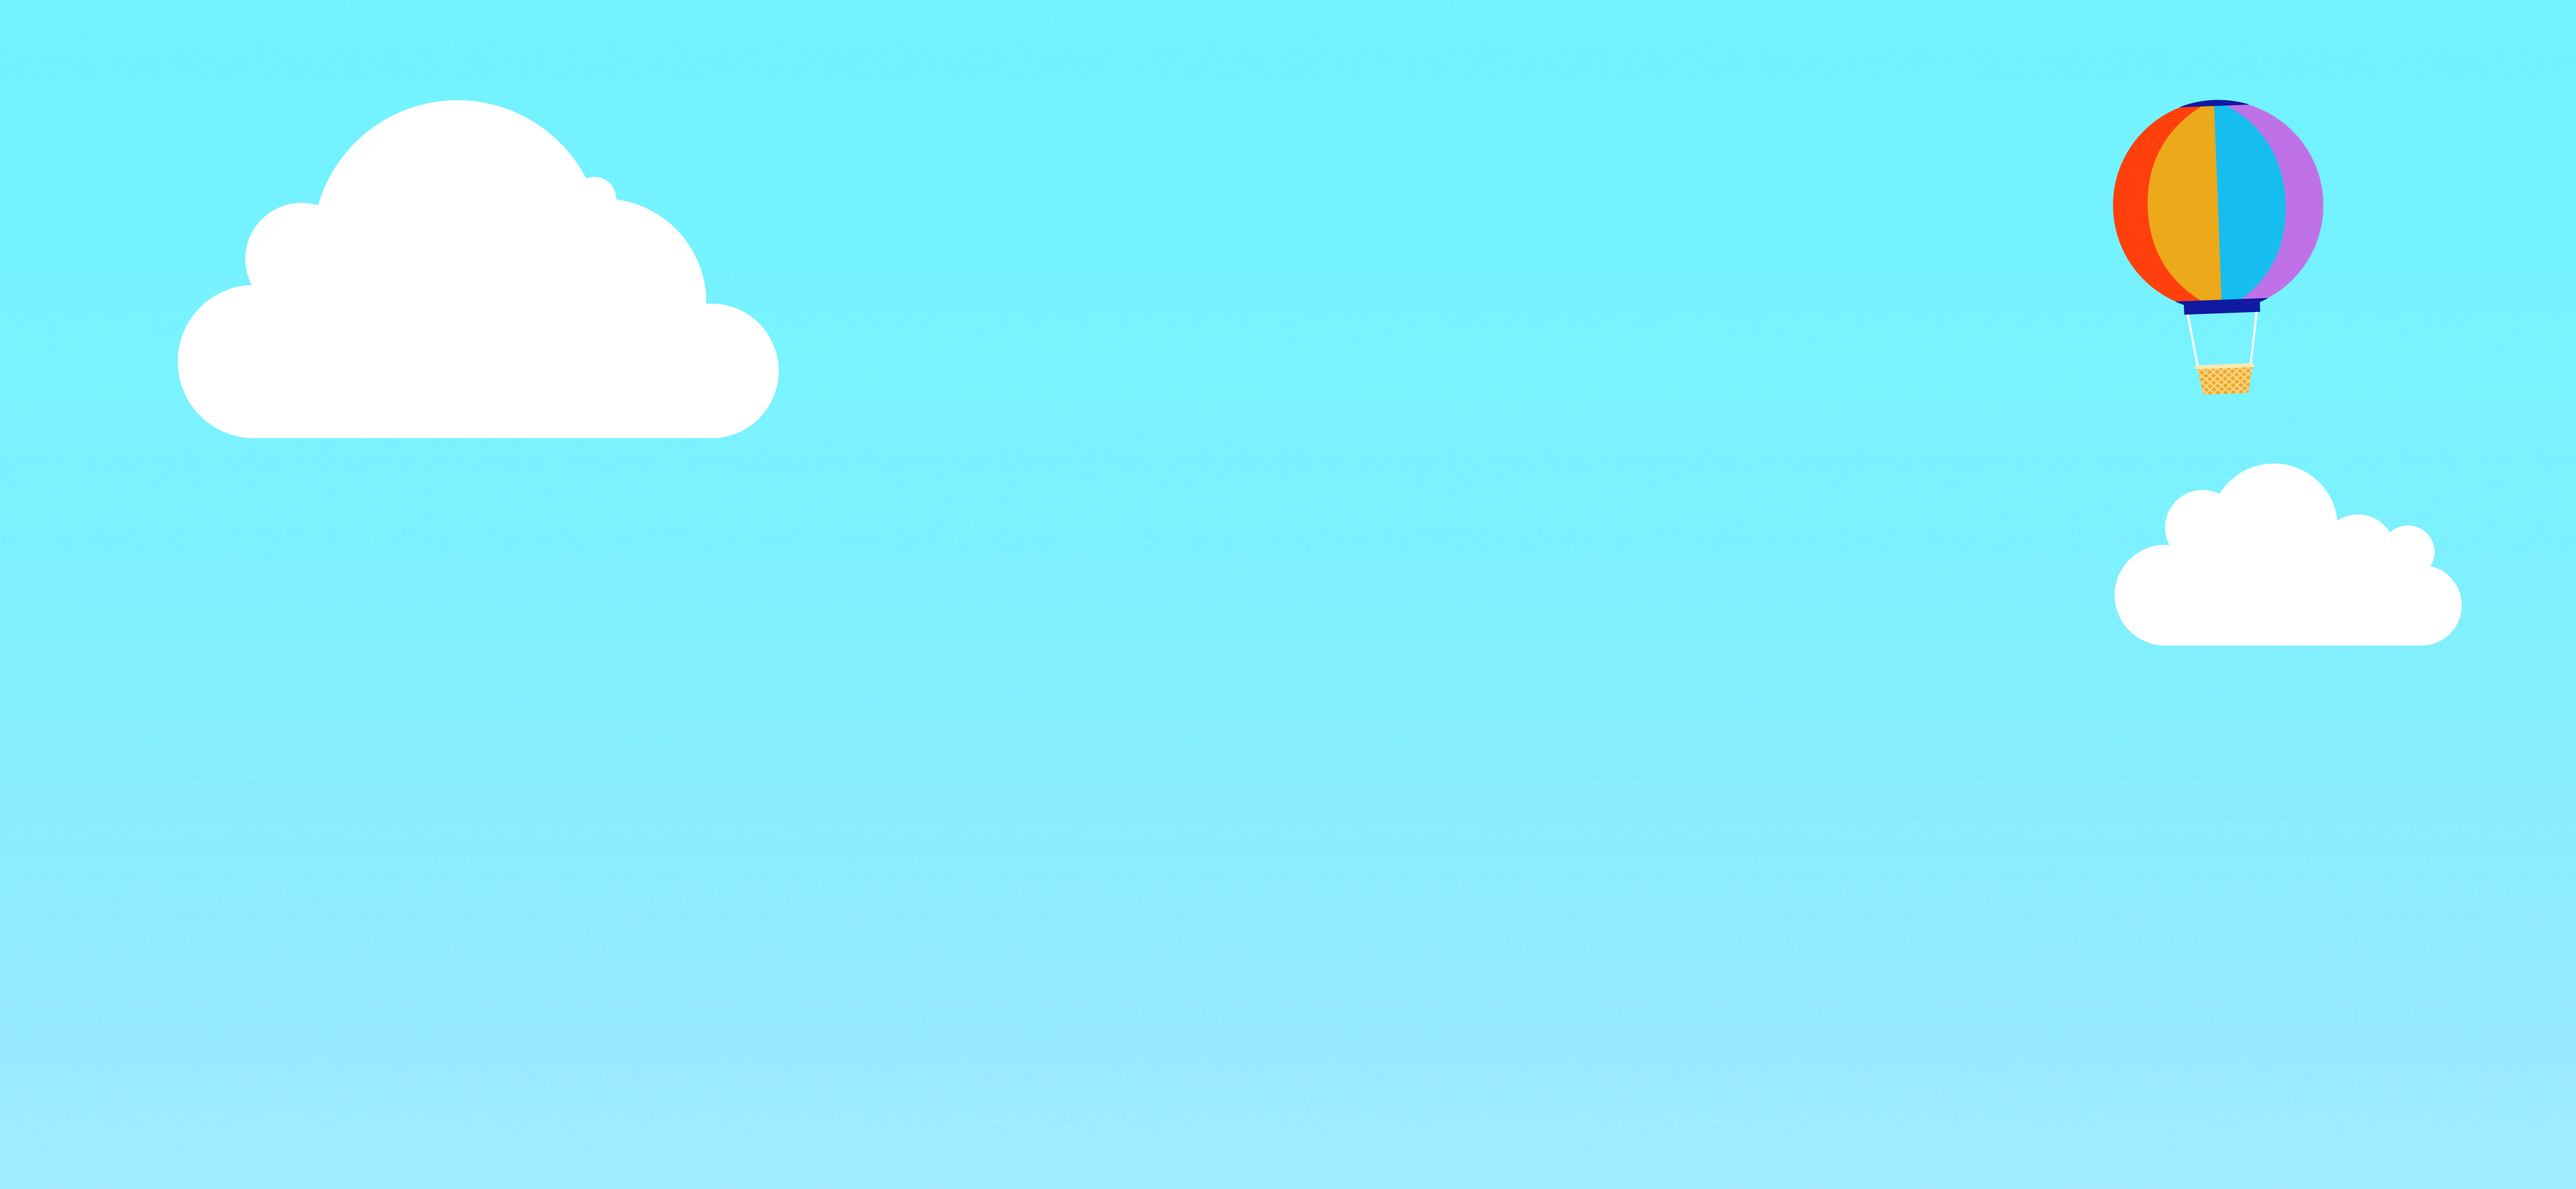
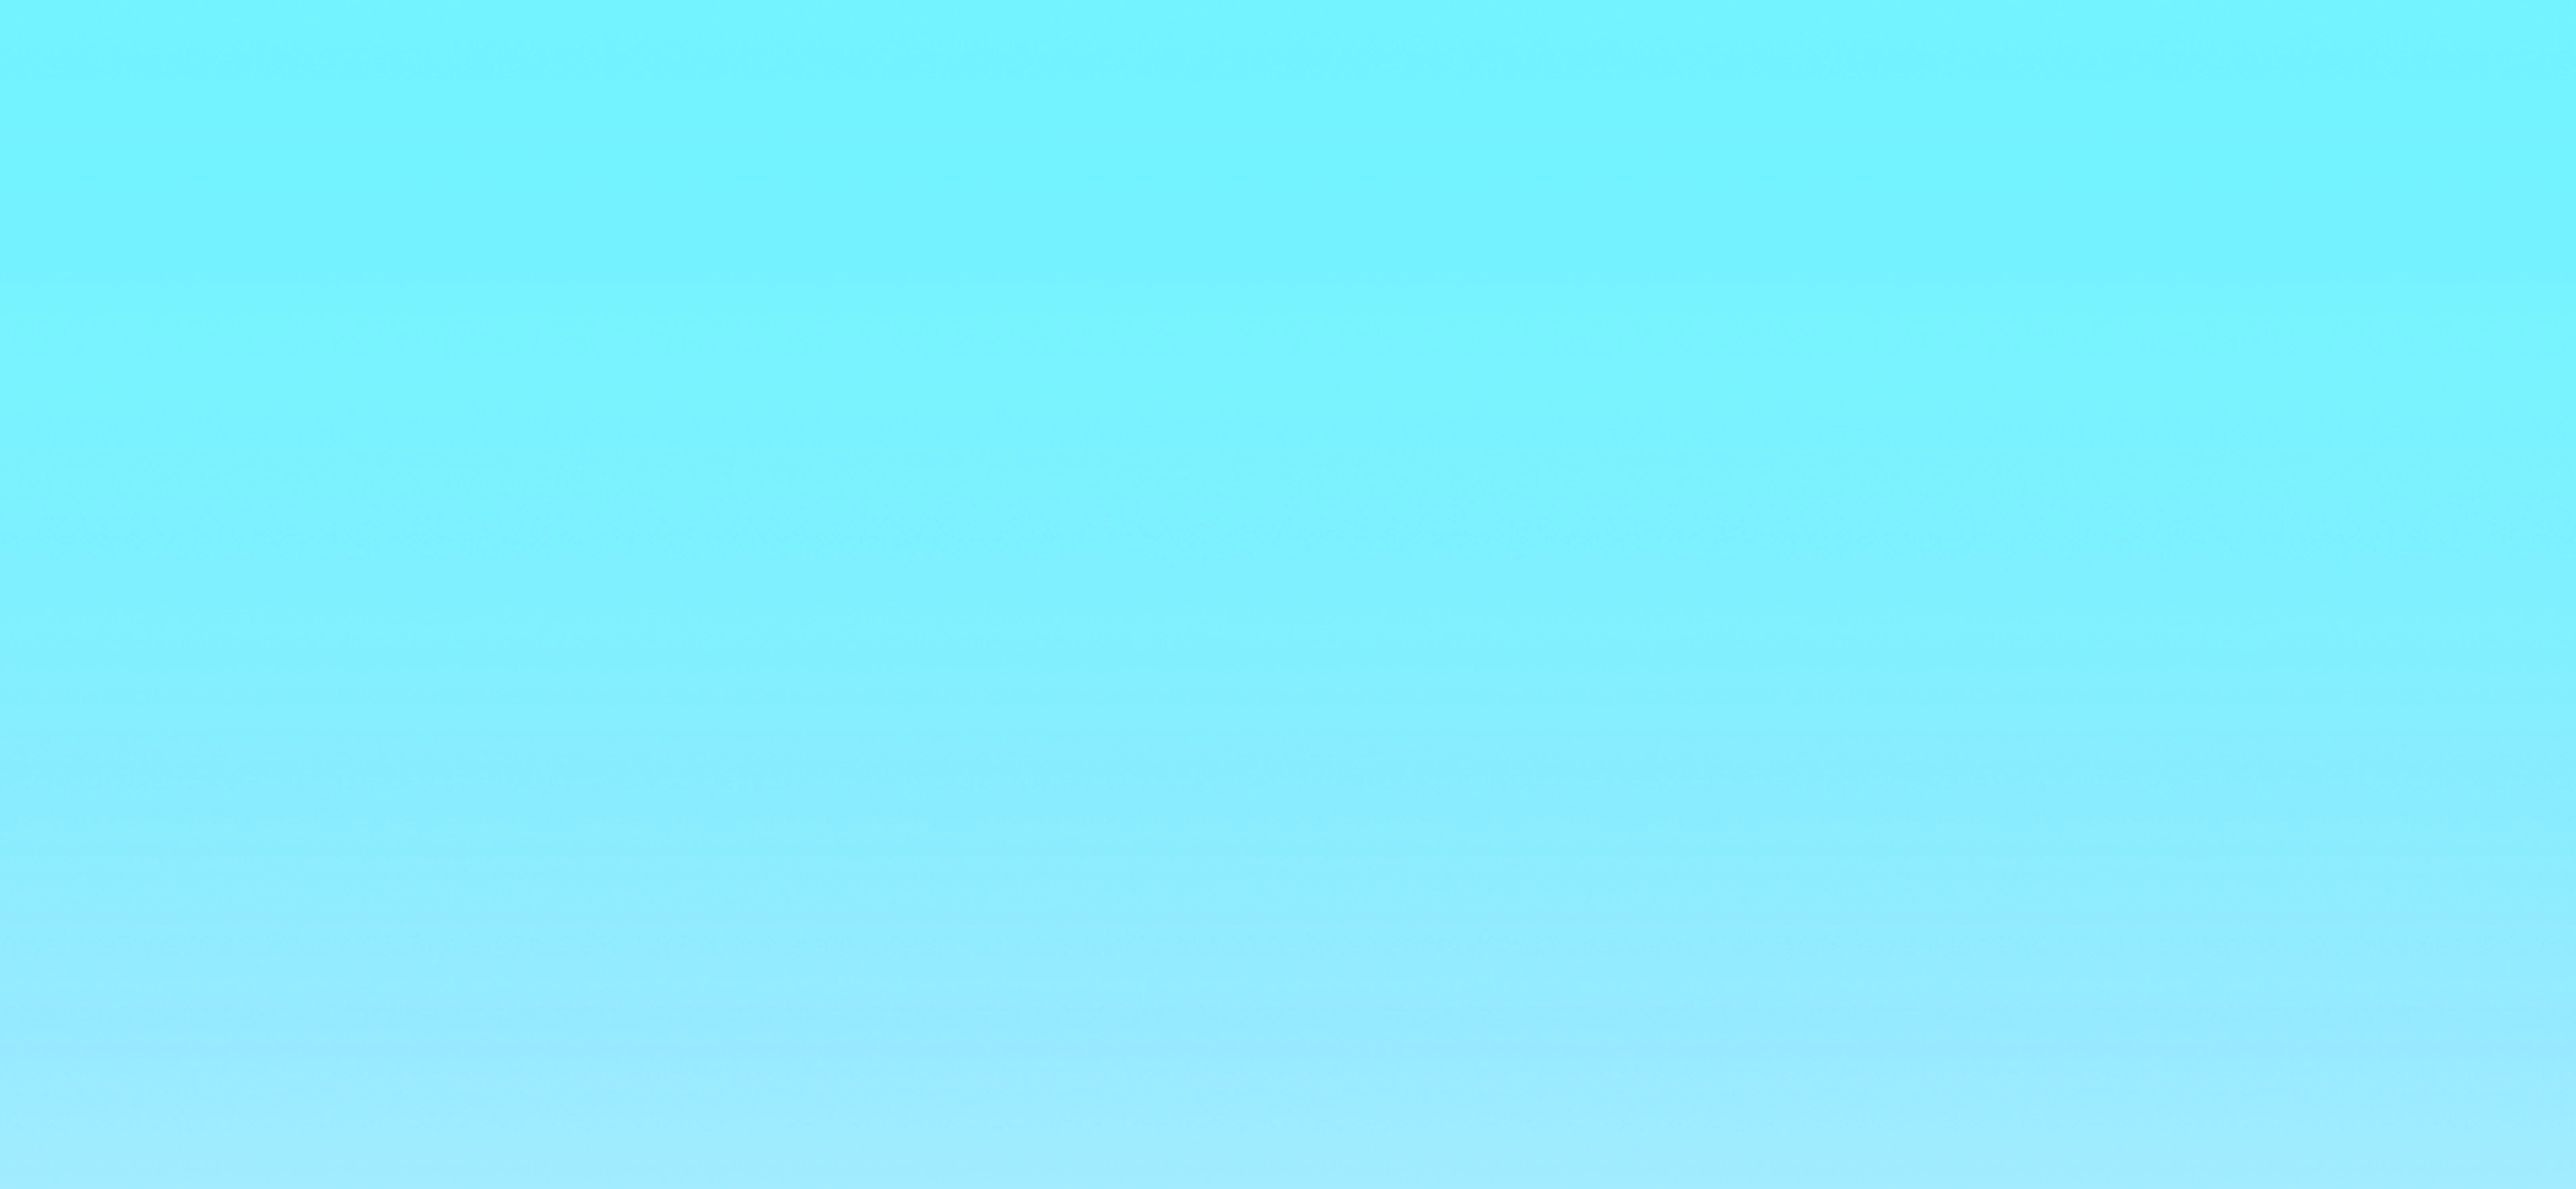
bubble game

diff --git a/web_test/lib/prototype/game_screen/game_memory_number_7/game_memory_number.dart b/web_test/lib/prototype/game_screen/game_memory_number_7/game_memory_number.dart
@@ -8,7 +8,10 @@ import 'package:flutter_svg/flutter_svg.dart';
 import 'package:hexcolor/hexcolor.dart';
 import 'package:simple_animations/simple_animations.dart';
 import 'package:web_test/model/game_calculate_model.dart';
+import 'package:web_test/widgets/basic_item.dart';
+import 'package:web_test/widgets/bubble_animation.dart';
 import 'package:web_test/widgets/particle.dart';
+import 'package:web_test/widgets/slide_animation.dart';
 
 class GameMemoryNumber extends StatefulWidget {
   _GameMemoryNumberState createState() => _GameMemoryNumberState();
@@ -48,7 +51,6 @@ class _GameMemoryNumberState extends State<GameMemoryNumber> {
         particles.add([]);
       }
     }
-    print(questionData);
   }
 
   @override
@@ -59,7 +61,11 @@ class _GameMemoryNumberState extends State<GameMemoryNumber> {
       questionData.position = questionPositionTmp;
       setState(() {});
     });
-    Timer(Duration(milliseconds: 4000), () {
+    Timer(Duration(milliseconds: 5000), () {
+      questionData.position = Offset(questionPositionTmp.dx,-300.0);
+      setState(() {});
+    });
+    Timer(Duration(milliseconds: 5500), () {
       Timer(Duration(milliseconds: 500), () {
         for (int index = 0; index < answerPositionTmp.length; index++) {
           answerData[index].position = answerPositionTmp[index];
@@ -100,14 +106,15 @@ class _GameMemoryNumberState extends State<GameMemoryNumber> {
         duration: Duration(milliseconds: 1000),
         top: questionData.position.dy,
         left: questionData.position.dx,
-        child: Container(
+        child: BubbleAnimation(
+            child: Container(
           height: questionData.height,
           width: questionData.width,
           child: SvgPicture.asset(
             assetFolder + questionData.image,
             fit: BoxFit.contain,
           ),
-        ));
+        )));
   }
 
   Widget _buildParticle(int index) {
@@ -138,26 +145,97 @@ class _GameMemoryNumberState extends State<GameMemoryNumber> {
     return Stack(
       children: answerIndex.map((index) {
         GameCalculateModel item = answerData[index];
-        return AnimatedPositioned(
-            left: item.position.dx,
-            top: item.position.dy,
-            duration: Duration(milliseconds: 1000),
-            child: _buildParticle(index));
+        return item.type == 1 && item.groupId == questionData.groupId
+            ? AnimatedPositioned(
+                left: item.position.dx,
+                top: item.position.dy,
+                duration: Duration(milliseconds: 1000),
+                child: BubbleAnimation(
+                  child: _buildParticle(index),
+                ))
+            : AnimatedPositioned(
+                left: item.position.dx,
+                top: item.position.dy,
+                duration: Duration(milliseconds: 1000),
+                child: BubbleAnimation(
+                  child: Container(
+                    height: item.height,
+                    width: item.width,
+                    child: SvgPicture.asset(
+                      assetFolder + item.image,
+                      fit: BoxFit.contain,
+                    ),
+                  ),
+                ));
       }).toList(),
     );
   }
 
-  Widget bubbleAnimation(){
+  Widget displayHotAirBalloon() {
+    return Positioned(
+        top: 33,
+        left: 665,
+        child: BubbleAnimation(
+          child: Container(
+            height: 96,
+            width: 71,
+            child: SvgPicture.asset(
+              'assets/images/game_memory_number_7/hot_air_balloon.svg',
+              fit: BoxFit.contain,
+            ),
+          ),
+        ));
+  }
 
+  Widget displayCloud() {
+    return Stack(
+      children: [
+        Positioned(
+            top: 32,
+            left: 56,
+            child: SlideAnimation(
+              beginValue: 0,
+              endValue: 812.0,
+              time: 20000,
+              child: Container(
+                height: 108,
+                width: 190,
+                child: SvgPicture.asset(
+                  'assets/images/game_memory_number_7/cloud_1.svg',
+                  fit: BoxFit.contain,
+                ),
+              ),
+            )),
+        Positioned(
+            top: 146,
+            left: 667,
+            child: SlideAnimation(
+              beginValue: 145.0,
+              endValue: -812.0,
+              time: 20000,
+              child: Container(
+                height: 58,
+                width: 110,
+                child: SvgPicture.asset(
+                  'assets/images/game_memory_number_7/cloud_2.svg',
+                  fit: BoxFit.contain,
+                ),
+              ),
+            ))
+      ],
+    );
   }
 
   List<Widget> displayScreen() {
     List<Widget> widgets = [];
+    widgets.add(displayHotAirBalloon());
     if (isDisplayAnswer) {
       widgets.add(displayAnswer());
     } else {
       widgets.add(displayQuestion());
     }
+    widgets.add(displayCloud());
+    widgets.add(BasicItem());
 
     return widgets;
   }

diff --git a/web_test/lib/widgets/slide_animation.dart b/web_test/lib/widgets/slide_animation.dart
@@ -1,8 +1,9 @@
 import 'dart:math';
 
 import 'package:flutter/material.dart';
+import 'package:flutter_staggered_animations/flutter_staggered_animations.dart';
 
-class BubbleAnimation extends StatefulWidget {
+class SlideAnimation extends StatefulWidget {
   final Widget child;
   final VoidCallback onTab;
   final int isPlayAnimation;
@@ -10,33 +11,37 @@ class BubbleAnimation extends StatefulWidget {
   final double endValue;
   final int time;
 
+  SlideAnimation(
+      {this.child,
+      this.onTab,
+      this.isPlayAnimation,
+      this.beginValue = -5.0,
+      this.endValue = 5.0,
+      this.time});
 
-  BubbleAnimation(
-      {this.child, this.onTab, this.isPlayAnimation, this.beginValue=-5.0, this.endValue=5.0, this.time});
-
-  _BubbleAnimationState createState() => _BubbleAnimationState();
+  _SlideAnimationState createState() => _SlideAnimationState();
 }
 
-class _BubbleAnimationState extends State<BubbleAnimation>
+class _SlideAnimationState extends State<SlideAnimation>
     with TickerProviderStateMixin {
   AnimationController _animationController;
-  Animation<double> _bubbleAnimation;
+  Animation<double> _slideAnimation;
 
   @override
   void initState() {
     // TODO: implement initState
     super.initState();
     Random rdm = Random();
-    int time=widget.time==null?(rdm.nextInt(20)+40)*20:widget.time;
+    int time = widget.time == null ? (rdm.nextInt(20) + 40) * 20 : widget.time;
     _animationController =
         AnimationController(duration: Duration(milliseconds: time), vsync: this)
-          ..repeat(reverse: true);
+          ..repeat(reverse: true );
   }
 
   @override
   void dispose() {
-    if(_animationController!=null){
-    _animationController.dispose();
+    if (_animationController != null) {
+      _animationController.dispose();
     }
     // TODO: implement dispose
     super.dispose();
@@ -45,7 +50,8 @@ class _BubbleAnimationState extends State<BubbleAnimation>
   @override
   void didChangeDependencies() {
     super.didChangeDependencies();
-    _bubbleAnimation = Tween(begin: widget.beginValue, end: widget.endValue).animate(
+    _slideAnimation =
+        Tween(begin: widget.beginValue, end: widget.endValue).animate(
       CurvedAnimation(
         parent: _animationController,
         curve: Interval(0.0, 0.75, curve: Curves.linear),
@@ -59,7 +65,7 @@ class _BubbleAnimationState extends State<BubbleAnimation>
         animation: _animationController,
         builder: (BuildContext context, Widget child) {
           return Transform.translate(
-              offset: Offset(0, _bubbleAnimation.value), child: widget.child);
+              offset: Offset(_slideAnimation.value, 0), child: widget.child);
         });
   }
 }
